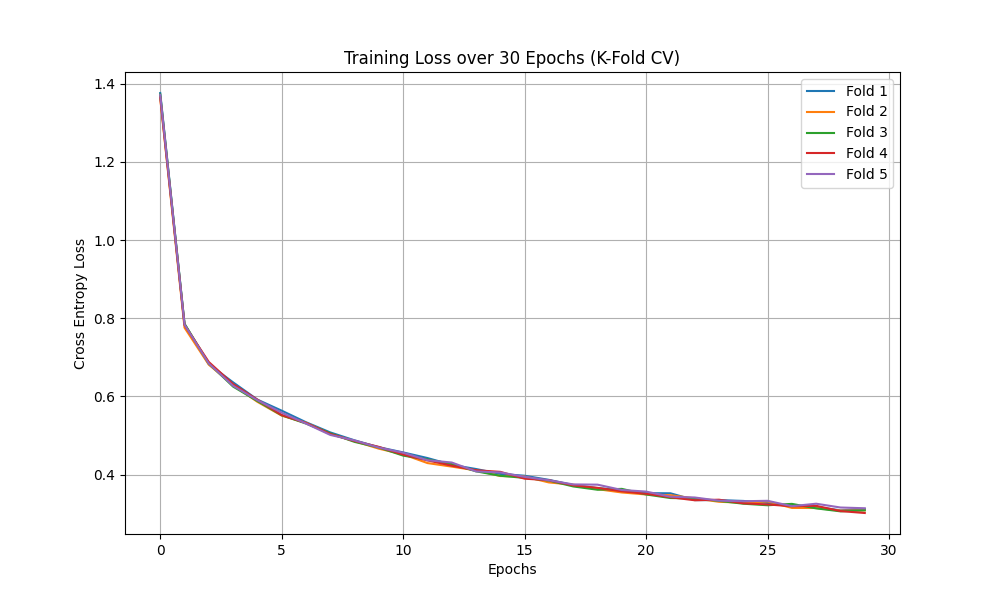
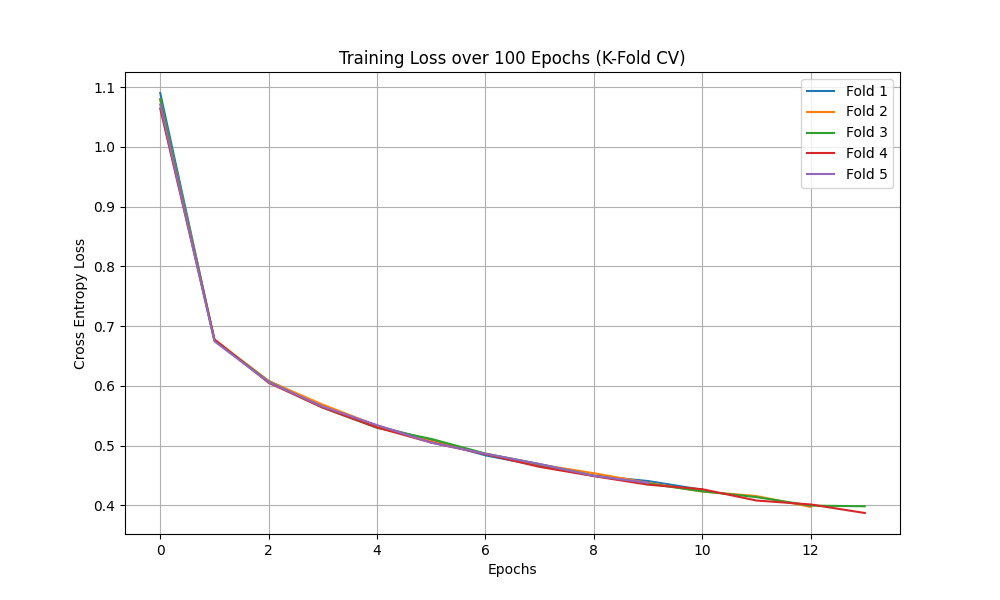
improve MLP

diff --git a/scripts/nn_genomes.py b/scripts/nn_genomes.py
@@ -21,10 +21,10 @@ import tqdm
 K = 4
 GENOME_DIR = "genomes"
 MIN_SEQ_LEN = 300
-MAX_GENES_PER_GENOME = 800
+MAX_GENES_PER_GENOME = 1500
 MIN_GENES_COUNT = 30
 BATCH_SIZE = 64
-EPOCHS = 30
+EPOCHS = 100
 LEARNING_RATE = 0.001
 FIG_DIR = "figures"
 os.makedirs(FIG_DIR, exist_ok=True)
@@ -32,17 +32,35 @@ os.makedirs(FIG_DIR, exist_ok=True)
 device = torch.device("cuda" if torch.cuda.is_available() else "mps" if torch.backends.mps.is_available() else "cpu")
 print(f"Using device: {device}")
 
+class ResidualBlock(nn.Module):
+    def __init__(self, size):
+        super().__init__()
+        self.block = nn.Sequential(
+            nn.Linear(size, size),
+            nn.BatchNorm1d(size),
+            nn.ReLU(),
+            nn.Dropout(0.2),
+            nn.Linear(size, size),
+            nn.BatchNorm1d(size)
+        )
+        self.relu = nn.ReLU()
+
+    def forward(self, x):
+        return self.relu(x + self.block(x))
+    
 class GenomicClassifier(nn.Module):
     def __init__(self, input_size, num_classes):
         super(GenomicClassifier, self).__init__()
         self.network = nn.Sequential(
-            nn.Linear(input_size, 512),
+            nn.Linear(input_size, 1024),
             nn.ReLU(),
             nn.Dropout(0.2),
             
-            nn.Linear(512, 256),
+            nn.Linear(1024, 256),
             nn.ReLU(),
             nn.Dropout(0.2),
+
+            ResidualBlock(256),
 
             nn.Linear(256, 128),
             nn.ReLU(),
@@ -53,6 +71,30 @@ class GenomicClassifier(nn.Module):
 
     def forward(self, x):
         return self.network(x)
+    
+class EarlyStopping:
+    def __init__(self, patience=5, min_delta=0):
+        """
+        Args:
+            patience (int): Combien d'époques attendre après la dernière amélioration.
+            min_delta (float): Changement minimum pour être considéré comme une amélioration.
+        """
+        self.patience = patience
+        self.min_delta = min_delta
+        self.counter = 0
+        self.best_loss = None
+        self.early_stop = False
+
+    def __call__(self, val_loss):
+        if self.best_loss is None:
+            self.best_loss = val_loss
+        elif val_loss > self.best_loss - self.min_delta:
+            self.counter += 1
+            if self.counter >= self.patience:
+                self.early_stop = True
+        else:
+            self.best_loss = val_loss
+            self.counter = 0
     
 def main():
     canonical_kmers = generate_canonical_kmers(K)
@@ -109,7 +151,7 @@ def main():
     for fold, (train_idx, val_idx) in enumerate(skf.split(X_scaled, y_encoded)):
         print(f"\n--- Fold {fold+1}/{n_splits} ---")
         
-        # Split des données
+        # Split data
         X_train_fold = torch.tensor(X_scaled[train_idx], dtype=torch.float32)
         y_train_fold = torch.tensor(y_encoded[train_idx], dtype=torch.long)
         X_val_fold = torch.tensor(X_scaled[val_idx], dtype=torch.float32)
@@ -123,27 +165,38 @@ def main():
 
         fold_losses = []
 
-        # Boucle d'entraînement
+        early_stopper = EarlyStopping(patience=5, min_delta=0.001)
+        
         for epoch in range(EPOCHS):
+            # TRAINING
             model.train()
             epoch_loss = 0
-            
             pbar = tqdm.tqdm(train_loader, desc=f"Epoch {epoch+1}/{EPOCHS}", leave=False)
+            
             for batch_X, batch_y in pbar:
                 batch_X, batch_y = batch_X.to(device), batch_y.to(device)
-                
                 optimizer.zero_grad()
                 outputs = model(batch_X)
                 loss = criterion(outputs, batch_y)
                 loss.backward()
                 optimizer.step()
-                
                 epoch_loss += loss.item()
-                pbar.set_postfix({"loss": f"{loss.item():.4f}"})
-            
-            fold_losses.append(epoch_loss / len(train_loader))
 
-        # Évaluation sur le set de validation
+            avg_train_loss = epoch_loss / len(train_loader)
+            fold_losses.append(avg_train_loss)
+
+            # VALIDATION (early stopping)
+            model.eval()
+            with torch.no_grad():
+                val_outputs = model(X_val_fold.to(device))
+                val_loss = criterion(val_outputs, y_val_fold.to(device)).item()
+            
+            early_stopper(val_loss)
+            if early_stopper.early_stop:
+                print(f"Early stopping at epoch {epoch+1}")
+                break
+
+        # Final validation
         model.eval()
         with torch.no_grad():
             val_outputs = model(X_val_fold.to(device))
